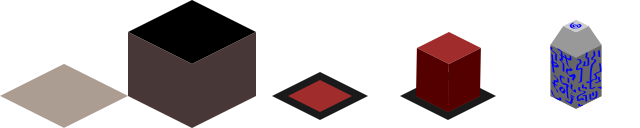
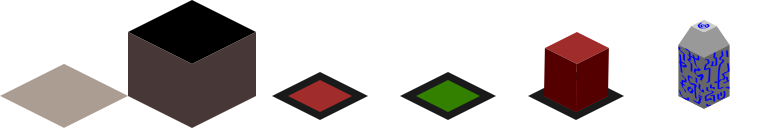
Made cleared room entrances visually distinct

diff --git a/core/src/com/dar/freshmaze/level/tilemap/rooms/BattleLevelRoom.java b/core/src/com/dar/freshmaze/level/tilemap/rooms/BattleLevelRoom.java
@@ -1,12 +1,17 @@
 package com.dar.freshmaze.level.tilemap.rooms;
 
 import com.badlogic.gdx.math.Rectangle;
+import com.badlogic.gdx.math.Vector2;
 import com.badlogic.gdx.utils.Array;
 import com.dar.freshmaze.entities.Bob;
 import com.dar.freshmaze.entities.EnemyOld;
 import com.dar.freshmaze.level.EnemyGenerator;
+import com.dar.freshmaze.level.tilemap.LevelTilemap;
+import com.dar.freshmaze.level.tilemap.tiles.DynamicEntranceTile;
+import com.dar.freshmaze.level.tilemap.tiles.DynamicTile;
 
 public class BattleLevelRoom extends LevelRoom {
+    private final Array<Vector2> entrances = new Array<>();
     private final Array<EnemyOld> enemies;
     private boolean isCleared = false;
 
@@ -14,6 +19,14 @@ public class BattleLevelRoom extends LevelRoom {
         super(bounds);
 
         enemies = enemyGenerator.generate(this);
+    }
+
+    public Array<Vector2> getEntrances() {
+        return entrances;
+    }
+
+    public void addEntrance(Vector2 entrance) {
+        entrances.add(entrance);
     }
 
     @Override
@@ -24,16 +37,30 @@ public class BattleLevelRoom extends LevelRoom {
     @Override
     public void onPlayerEnter(Bob bob) {
         if (!isCleared)
-            setIsOpen(false);
+            setEntrancesState(DynamicEntranceTile.State.Closed);
     }
 
     public void onEnemyDeath(EnemyOld enemy) {
         enemies.removeValue(enemy, true);
 
         if (enemies.isEmpty()) {
-            setIsOpen(true);
+            setEntrancesState(DynamicEntranceTile.State.Cleared);
 
             isCleared = true;
         }
+    }
+
+    private void setEntrancesState(DynamicEntranceTile.State state) {
+        entrances.forEach(entrance -> {
+            final DynamicTile dynamicTile = getLevel().getTilemap().getDynamicTile(new LevelTilemap.CellPos((int)entrance.x, (int)entrance.y));
+            if (dynamicTile == null)
+                return;
+
+            if (dynamicTile instanceof DynamicEntranceTile) {
+                final DynamicEntranceTile entranceTile = (DynamicEntranceTile)dynamicTile;
+
+                entranceTile.setState(state);
+            }
+        });
     }
 }

diff --git a/core/src/com/dar/freshmaze/level/tilemap/tiles/DynamicEntranceTile.java b/core/src/com/dar/freshmaze/level/tilemap/tiles/DynamicEntranceTile.java
@@ -6,30 +6,51 @@ import com.dar.freshmaze.level.tilemap.LevelTilemap;
 public class DynamicEntranceTile extends DynamicTile {
     private final TiledMapTile openTile;
     private final TiledMapTile closedTile;
+    private final TiledMapTile clearedTile;
 
-    private boolean isOpen = true;
+    private State state = State.Closed;
 
-    public DynamicEntranceTile(LevelTilemap tilemap, LevelTilemap.CellPos pos, TiledMapTile openTile, TiledMapTile closedTile) {
+    public DynamicEntranceTile(LevelTilemap tilemap, LevelTilemap.CellPos pos, TiledMapTile openTile, TiledMapTile closedTile, TiledMapTile clearedTile) {
         super(tilemap, pos, openTile);
 
         this.openTile = openTile;
         this.closedTile = closedTile;
+        this.clearedTile = clearedTile;
 
         setPhysBody(tilemap.createTilePhysBody(getCellPos(), getDefaultTile()));
     }
 
-    public boolean isOpen() {
-        return isOpen;
+    public State getState() {
+        return state;
     }
 
-    public void setIsOpen(boolean newIsOpen) {
-        isOpen = newIsOpen;
+    public void setState(State newState) {
+        state = newState;
 
         final LevelTilemap tilemap = getTilemap();
 
-        final TiledMapTile tile = isOpen ? openTile : closedTile;
+        final TiledMapTile tile = getTile();
 
         tilemap.placeTile(getCellPos(), tile, LevelTilemap.Layer.Wall);
         setPhysBody(tilemap.createTilePhysBody(getCellPos(), tile));
+    }
+
+    private TiledMapTile getTile() {
+        switch (state) {
+            case Open:
+                return openTile;
+            case Closed:
+                return closedTile;
+            case Cleared:
+                return clearedTile;
+        }
+
+        return null;
+    }
+
+    public enum State {
+        Open,
+        Closed,
+        Cleared
     }
 }

diff --git a/core/src/com/dar/freshmaze/level/tilemap/LevelTilemap.java b/core/src/com/dar/freshmaze/level/tilemap/LevelTilemap.java
@@ -33,6 +33,7 @@ public class LevelTilemap implements Disposable {
     public final StaticTiledMapTile floorTile;
     public final StaticTiledMapTile wallTile;
     public final StaticTiledMapTile entranceOpenTile;
+    public final StaticTiledMapTile entranceClearedTile;
     public final StaticTiledMapTile entranceClosedTile;
     public final StaticTiledMapTile teleportMonolithTile;
 
@@ -56,8 +57,9 @@ public class LevelTilemap implements Disposable {
         floorTile = new StaticTiledMapTile(splitTiles[0][0]);
         wallTile = new StaticTiledMapTile(splitTiles[0][1]);
         entranceOpenTile = new StaticTiledMapTile(splitTiles[0][2]);
-        entranceClosedTile = new StaticTiledMapTile(splitTiles[0][3]);
-        teleportMonolithTile = new StaticTiledMapTile(splitTiles[0][4]);
+        entranceClearedTile = new StaticTiledMapTile(splitTiles[0][3]);
+        entranceClosedTile = new StaticTiledMapTile(splitTiles[0][4]);
+        teleportMonolithTile = new StaticTiledMapTile(splitTiles[0][5]);
 
         // wallTile.getProperties().put("is_walkable", Boolean.FALSE);
         // floorTile.getProperties().put("is_walkable", Boolean.TRUE);
@@ -182,7 +184,7 @@ public class LevelTilemap implements Disposable {
 
             case HallEntrance:
                 placeStaticTile(pos, floorTile, Layer.Floor);
-                placeDynamicTile(new DynamicEntranceTile(this, pos, entranceOpenTile, entranceClosedTile), Layer.Wall);
+                placeDynamicTile(new DynamicEntranceTile(this, pos, entranceOpenTile, entranceClosedTile, entranceClearedTile), Layer.Wall);
                 break;
 
             case Teleport:

diff --git a/core/src/com/dar/freshmaze/level/tilemap/rooms/LevelRoom.java b/core/src/com/dar/freshmaze/level/tilemap/rooms/LevelRoom.java
@@ -12,51 +12,24 @@ import com.dar.freshmaze.level.tilemap.tiles.DynamicTile;
 public class LevelRoom {
     private Level level;
     private final Rectangle bounds;
-    private final Array<Vector2> entrances = new Array<>();
 
-    private boolean isOpen = true;
 
     public LevelRoom(Rectangle bounds) {
         this.bounds = bounds;
+    }
+
+    public Level getLevel() {
+        return level;
     }
 
     public void setLevel(Level newLevel) {
         level = newLevel;
     }
 
-    public void setIsOpen(boolean newIsOpen) {
-        isOpen = newIsOpen;
-
-        // TODO: Send some event
-        entrances.forEach(entrance -> {
-            final DynamicTile dynamicTile = level.getTilemap().getDynamicTile(new LevelTilemap.CellPos((int)entrance.x, (int)entrance.y));
-            if (dynamicTile == null)
-                return;
-
-            if (dynamicTile instanceof DynamicEntranceTile) {
-                final DynamicEntranceTile entranceTile = (DynamicEntranceTile)dynamicTile;
-
-                entranceTile.setIsOpen(isOpen);
-            }
-        });
-    }
-
-    public boolean isOpen() {
-        return isOpen;
-    }
-
-
     public Rectangle getBounds() {
         return bounds;
     }
 
-    public Array<Vector2> getEntrances() {
-        return entrances;
-    }
-
-    public void addEntrance(Vector2 entrance) {
-        entrances.add(entrance);
-    }
 
     public void onDestroy() {}
 

diff --git a/core/src/com/dar/freshmaze/level/bitmap/LevelBitmap.java b/core/src/com/dar/freshmaze/level/bitmap/LevelBitmap.java
@@ -2,6 +2,7 @@ package com.dar.freshmaze.level.bitmap;
 
 import com.badlogic.gdx.math.Rectangle;
 import com.badlogic.gdx.math.Vector2;
+import com.badlogic.gdx.utils.Array;
 import com.dar.freshmaze.level.graph.LevelNodeGenerator;
 import com.dar.freshmaze.level.tilemap.rooms.BattleLevelRoom;
 import com.dar.freshmaze.level.tilemap.rooms.FinalLevelRoom;
@@ -106,7 +107,8 @@ public class LevelBitmap {
                             return Cell.Kind.Wall;
                         case Hall:
                             if (room instanceof BattleLevelRoom) {
-                                room.addEntrance(new Vector2(x, y));
+                                final BattleLevelRoom battleRoom = (BattleLevelRoom)room;
+                                battleRoom.addEntrance(new Vector2(x, y));
 
                                 return Cell.Kind.HallEntrance;
                             } else {
